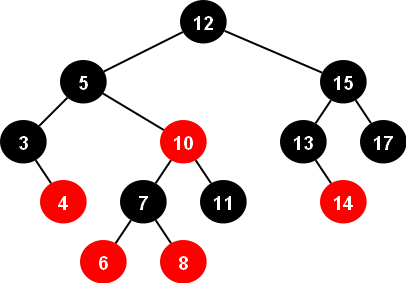
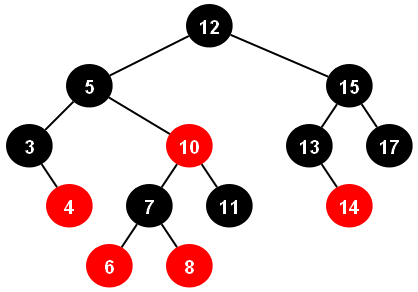
removed wrong picture

diff --git a/latex/sections/rb_tree.tex b/latex/sections/rb_tree.tex
@@ -19,7 +19,7 @@ Der Rot-Schwarz-Baum erweitert einen Binär-Baum mit Hilfe eines Farbattributs f
 
 \begin{figure}[h]
 	\centering
-	\includegraphics[width=0.45\textwidth]{pictures/redblacktree1.png}
+	\includegraphics[width=0.45\textwidth]{pictures/redblacktree.png}
 	\caption{RED-BLACK-TREE~\protect\cite{rtoal}}
 	\label{fig:rbtree}
 \end{figure}
